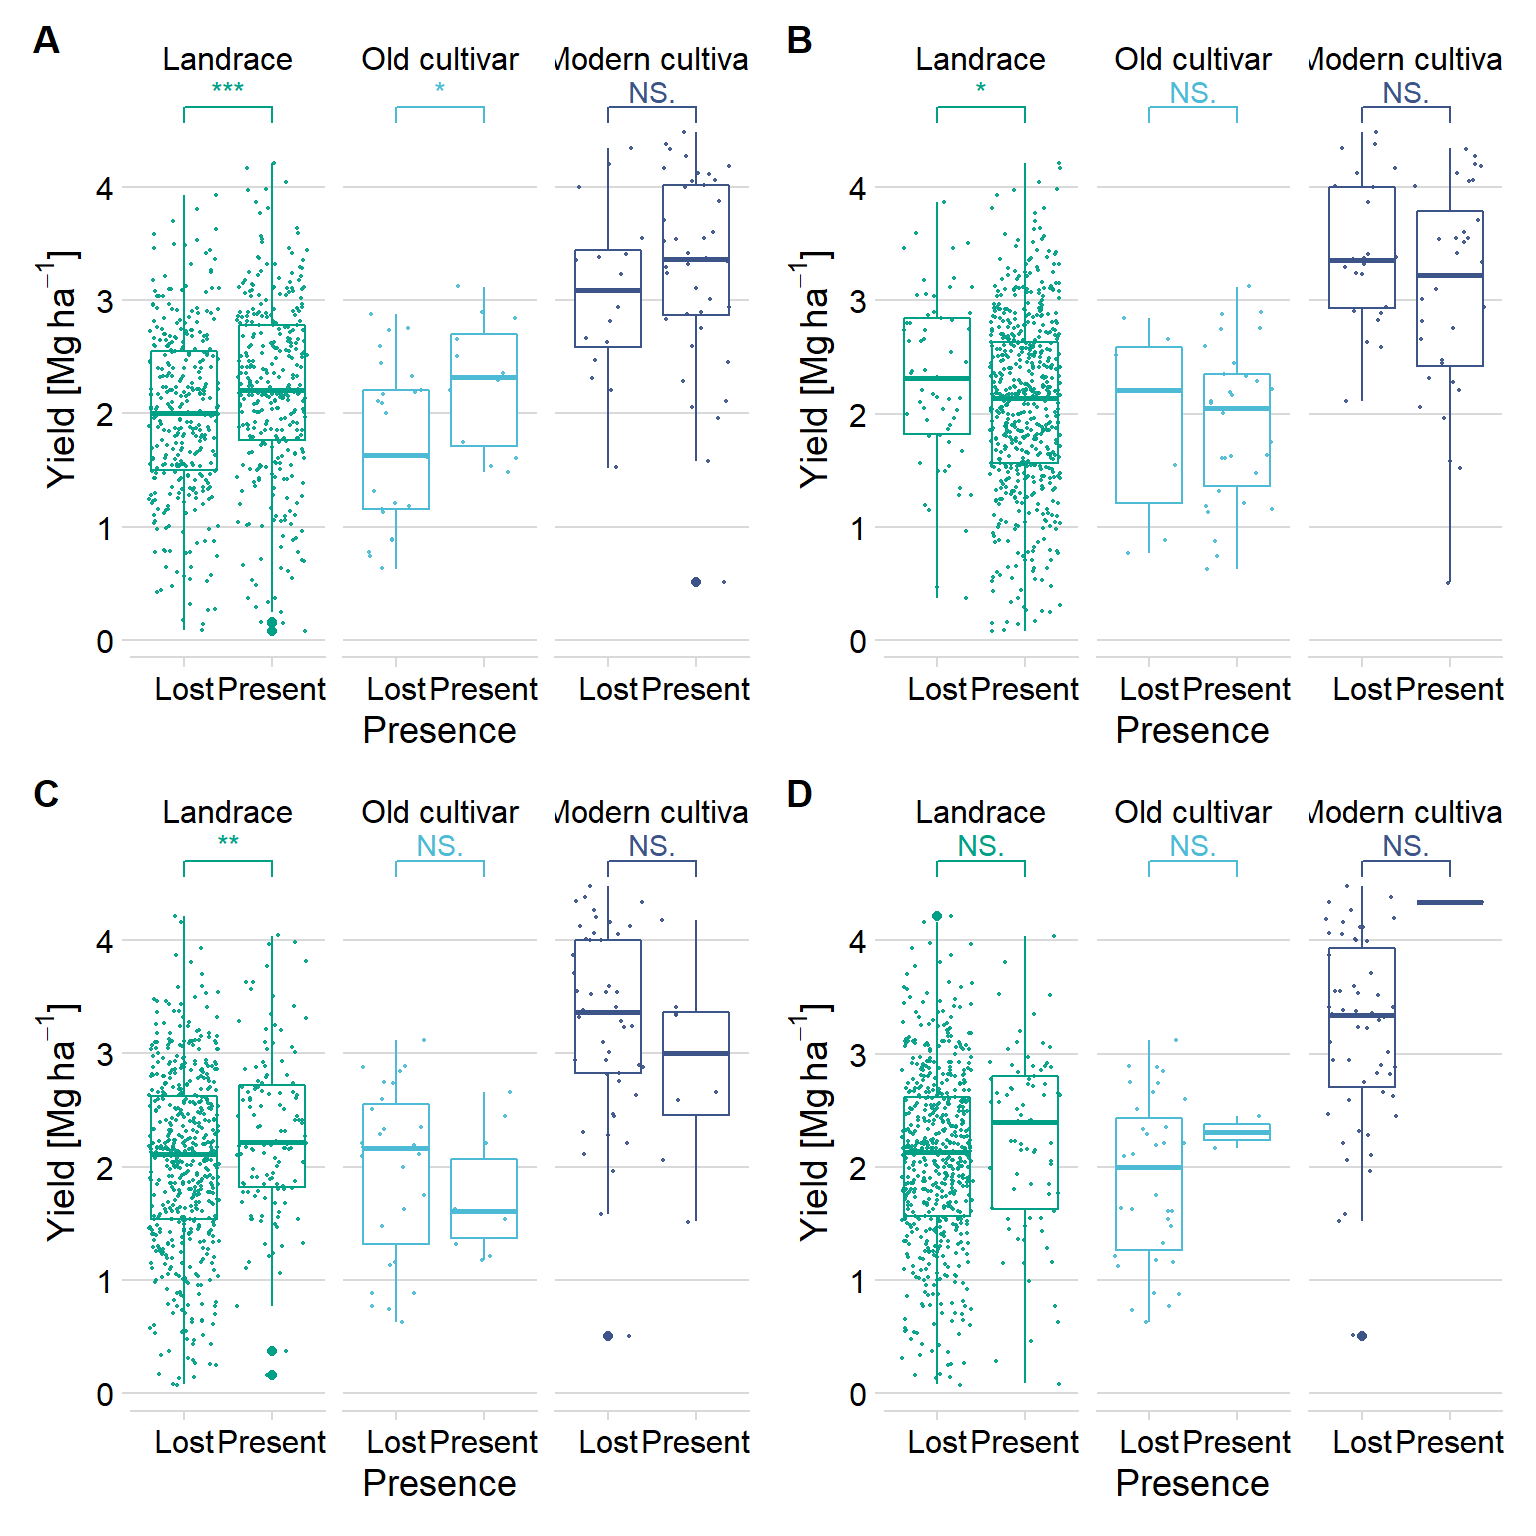
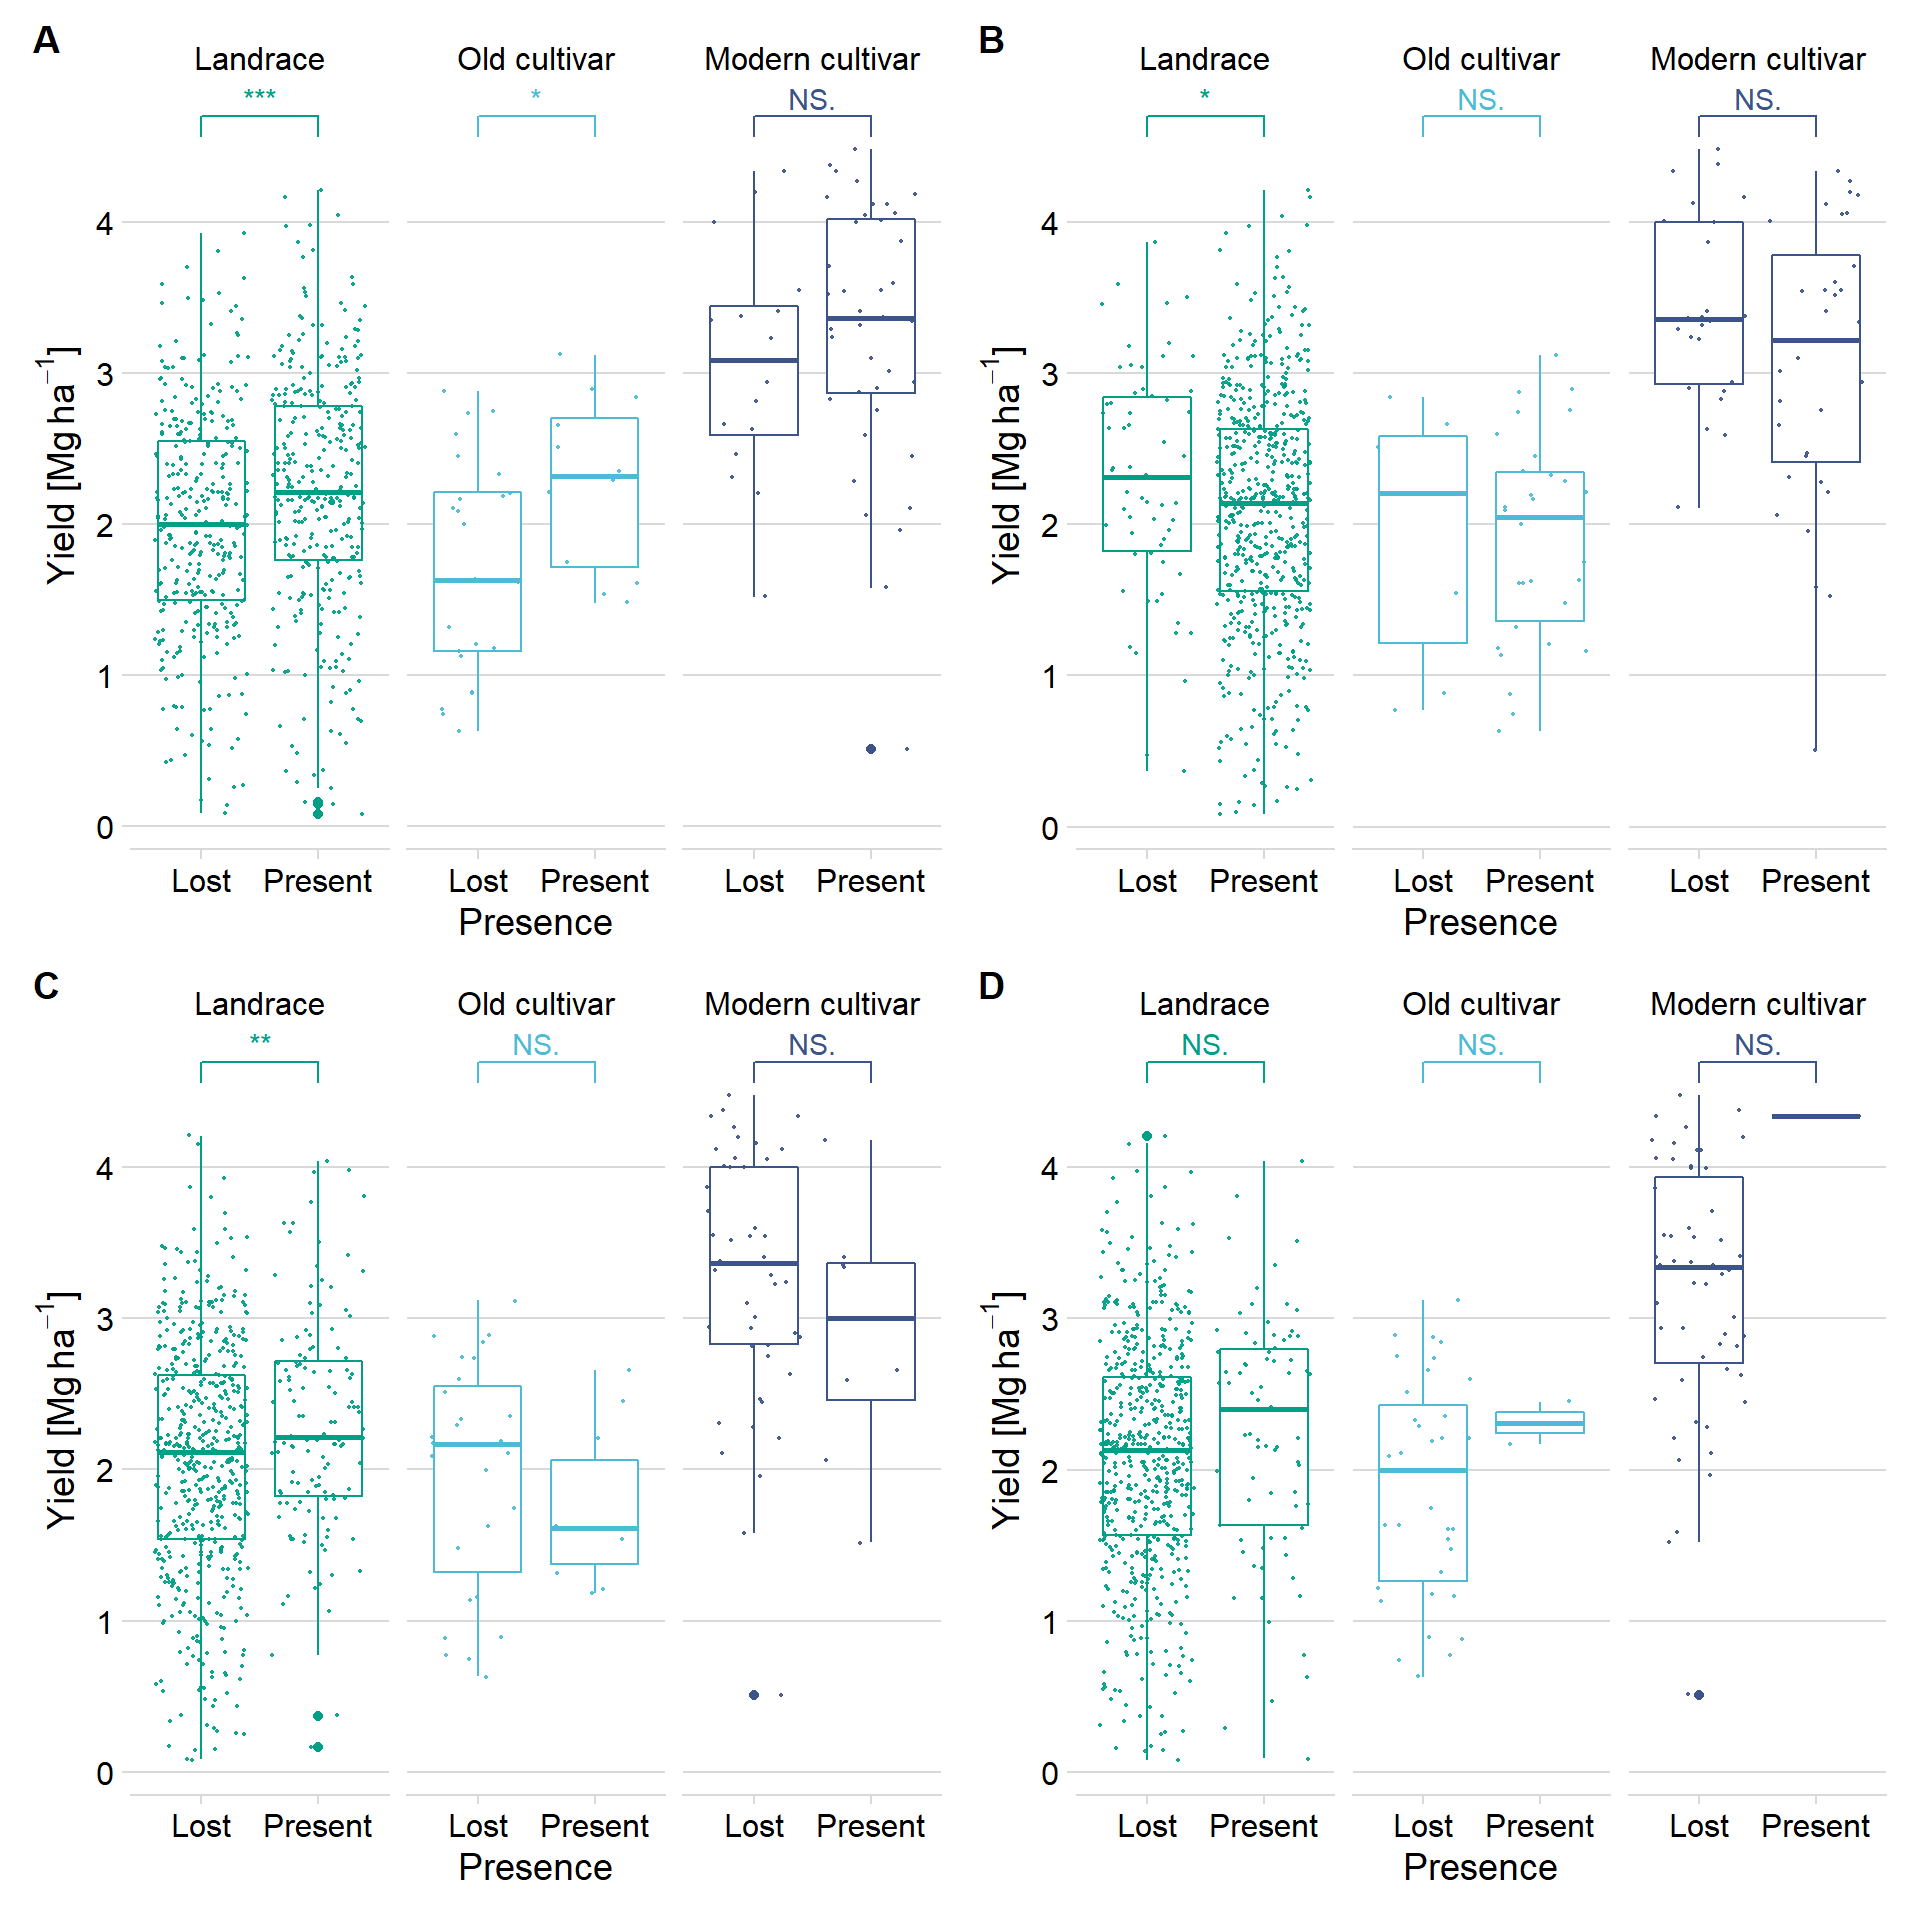
Build site.

diff --git a/docs/gwas.html b/docs/gwas.html
@@ -504,16 +504,16 @@ This reproducible <a href="http://rmarkdown.rstudio.com">R Markdown</a> analysis
 <div class="panel panel-default">
 <div class="panel-heading">
 <p class="panel-title">
-<a data-toggle="collapse" data-parent="#workflowr-checks" href="#strongRepositoryversionstrongahrefhttpsgithubcomphilippbayerRgeneanalysistreec2ccdb99ecd3a3a295c3f269c67a7acb39eeec67targetblankc2ccdb9a"> <span class="glyphicon glyphicon-ok text-success" aria-hidden="true"></span> <strong>Repository version:</strong> <a href="https://github.com/philippbayer/R_gene_analysis/tree/c2ccdb99ecd3a3a295c3f269c67a7acb39eeec67" target="_blank">c2ccdb9</a> </a>
+<a data-toggle="collapse" data-parent="#workflowr-checks" href="#strongRepositoryversionstrongahrefhttpsgithubcomphilippbayerRgeneanalysistree53bc5e50e316aeabe5a131267ec473c169598882targetblank53bc5e5a"> <span class="glyphicon glyphicon-ok text-success" aria-hidden="true"></span> <strong>Repository version:</strong> <a href="https://github.com/philippbayer/R_gene_analysis/tree/53bc5e50e316aeabe5a131267ec473c169598882" target="_blank">53bc5e5</a> </a>
 </p>
 </div>
[2 lines of base64/hex data omitted]
 <div class="panel-body">
 <p>
 Great! You are using Git for version control. Tracking code development and connecting the code version to the results is critical for reproducibility.
 </p>
 <p>
-The results in this page were generated with repository version <a href="https://github.com/philippbayer/R_gene_analysis/tree/c2ccdb99ecd3a3a295c3f269c67a7acb39eeec67" target="_blank">c2ccdb9</a>. See the <em>Past versions</em> tab to see a history of the changes made to the R Markdown and HTML files.
+The results in this page were generated with repository version <a href="https://github.com/philippbayer/R_gene_analysis/tree/53bc5e50e316aeabe5a131267ec473c169598882" target="_blank">53bc5e5</a>. See the <em>Past versions</em> tab to see a history of the changes made to the R Markdown and HTML files.
 </p>
 <p>
 Note that you need to be careful to ensure that all relevant files for the analysis have been committed to Git prior to generating the results (you can use <code>wflow_publish</code> or <code>wflow_git_commit</code>). workflowr only checks the R Markdown file, but you know if there are other scripts or data files that it depends on. Below is the status of the Git repository when the results were generated:
@@ -600,6 +600,40 @@ Message
 </tr>
 </thead>
 <tbody>
+<tr>
+<td>
+Rmd
+</td>
+<td>
+<a href="https://github.com/philippbayer/R_gene_analysis/blob/53bc5e50e316aeabe5a131267ec473c169598882/analysis/gwas.Rmd" target="_blank">53bc5e5</a>
+</td>
+<td>
+Philipp Bayer
+</td>
+<td>
+2021-03-31
+</td>
+<td>
+wflow_publish(“analysis/gwas.Rmd”)
+</td>
+</tr>
+<tr>
+<td>
+html
+</td>
+<td>
+<a href="https://rawcdn.githack.com/philippbayer/R_gene_analysis/046f90d11732b79bd380077b4a04aa8d88fe7175/docs/gwas.html" target="_blank">046f90d</a>
+</td>
+<td>
+Philipp Bayer
+</td>
+<td>
+2021-03-31
+</td>
+<td>
+Build site.
+</td>
+</tr>
 <tr>
 <td>
 Rmd
@@ -1525,7 +1559,7 @@ cannot compute exact p-value with ties</code></pre>
 cannot compute exact p-value with ties</code></pre>
 <pre><code>Warning in wilcox.test.default(c(2.19, 2.66, 2.6, 2.74, 1.63, 1.61, 1.21, :
 cannot compute exact p-value with ties</code></pre>
-<p><img src="figure/gwas.Rmd/unnamed-chunk-19-1.png" width="768" style="display: block; margin: auto;" /></p>
+<p><img src="figure/gwas.Rmd/unnamed-chunk-19-1.png" width="960" style="display: block; margin: auto;" /></p>
 <p>I also need a presence/absence percentage for all candidates</p>
 <pre class="r"><code>big_t &lt;- NULL
 for(i in 1:nrow(candidates)) {
